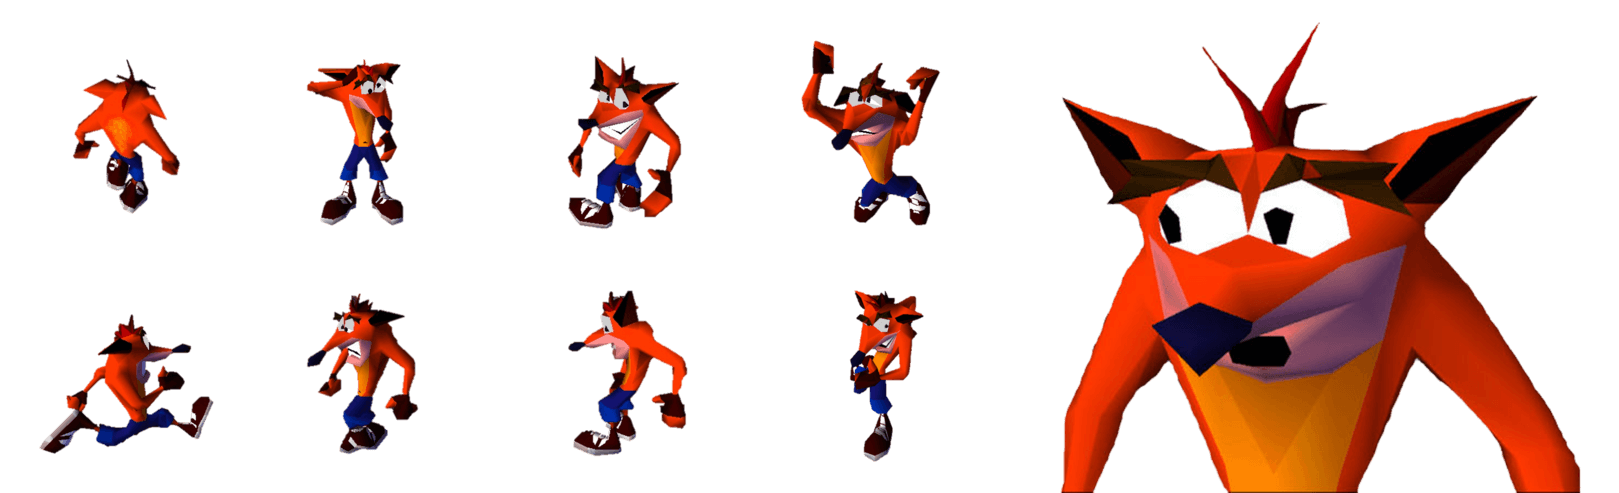
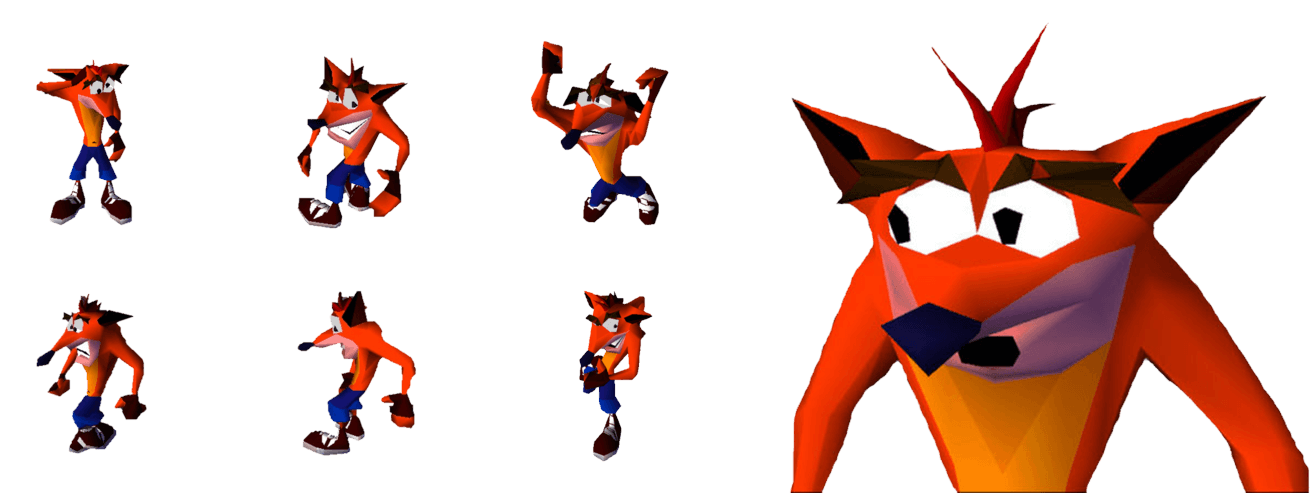
tablet done

diff --git a/style.css b/style.css
@@ -53,7 +53,7 @@ h1 {
 h2 {
     font-family: "Press Start 2P", serif;
     color: white;
-    font-size: 14px;
+    font-size: 12px;
     text-align: center;
 }
 
@@ -164,7 +164,7 @@ p {
     background-color: var(--grey);
     border-radius: 10px;
     border: solid 2px black;
-    width: 90%;
+    max-width: 300px;
     margin: auto;
     position: relative;
     top: 50%;
@@ -201,3 +201,38 @@ p {
     padding: 5px;
 }
 
+/* media queries */
+
+/*tablet*/
+@media only screen and (min-width: 600px) {
+    .container {
+        display: grid;
+        grid-template-columns: repeat(3, 1fr);
+        grid-template-rows: repeat(3, 1fr); 
+    }
+    .grid-item:nth-last-child(2) {
+        grid-column: 1 / 2; /* Place the second to last item in the center column */
+    }
+    .grid-item:nth-last-child(1) {
+        grid-column: 3 / 4; /* Place the last item in the right column */
+    }
+    .grid-item{
+        background-color: var(--gridcolor);
+        height: 230px;
+    }
+    .character{
+        height: 103px;
+    }
+    h1{
+        font-size: 24px;
+    }
+    h2{
+        font-size: 14px;
+    }
+    h4{
+        font-size: 18px;
+    }
+    .modal-content {
+        max-width: 350px;
+    }
+}
